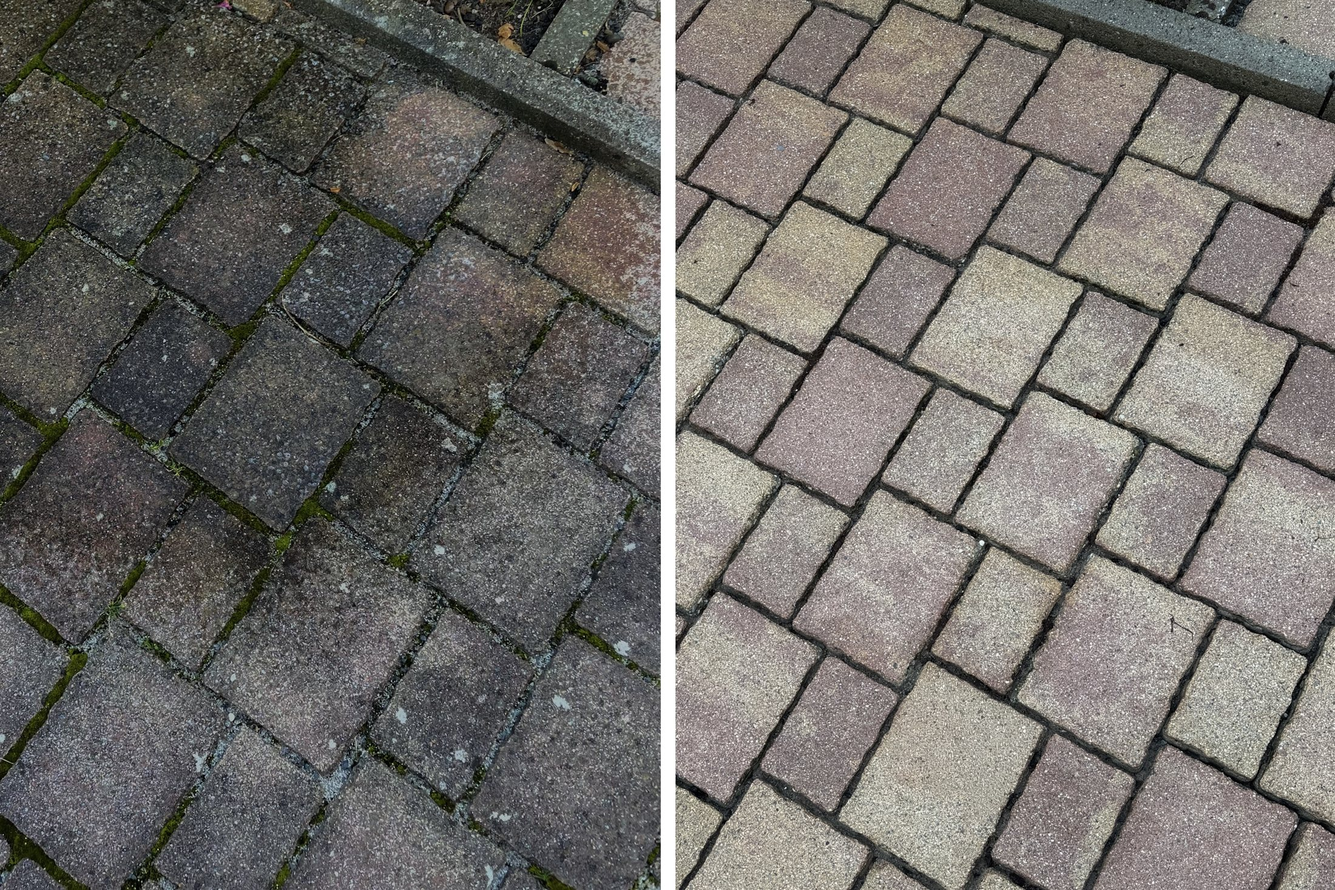
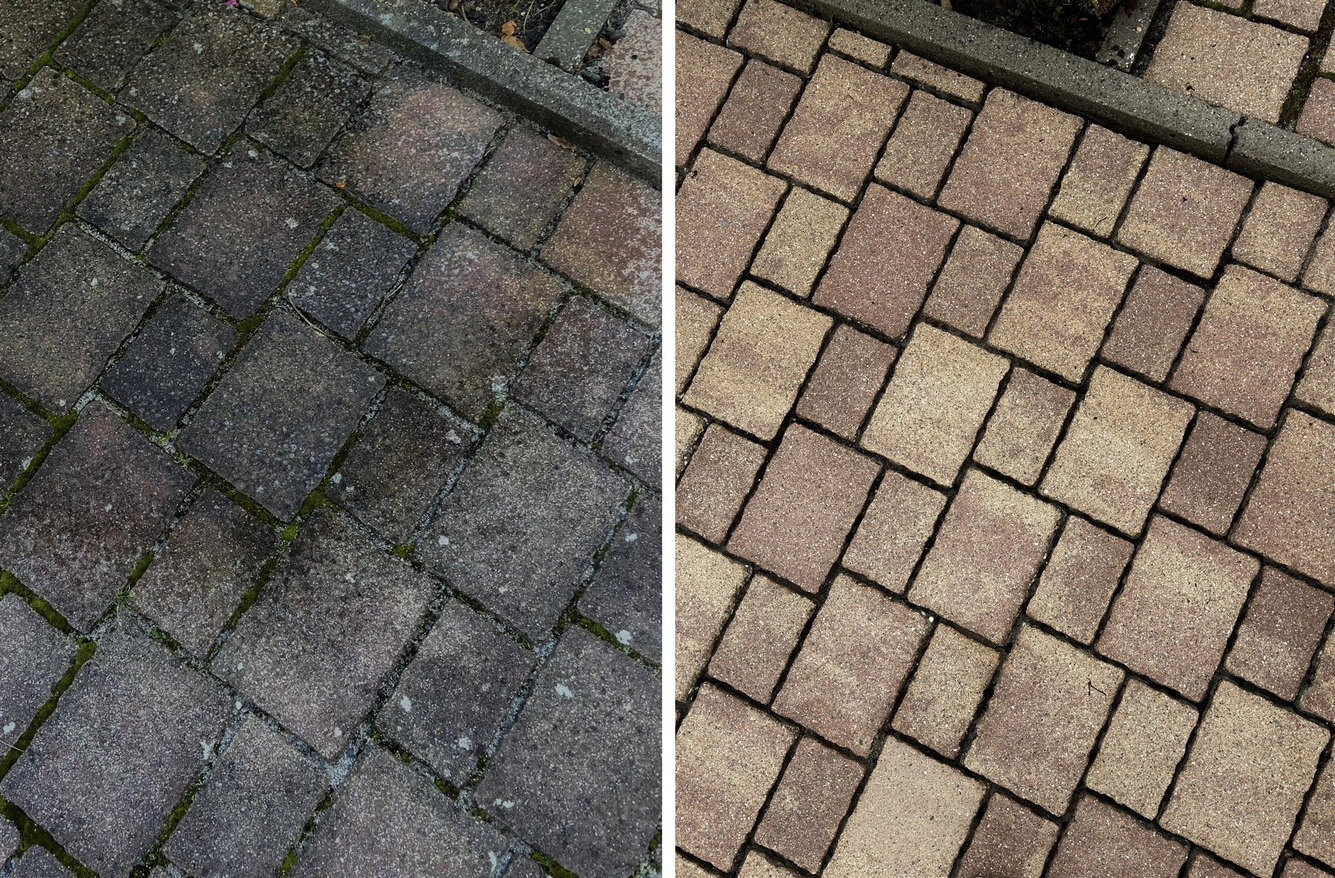
Pflaster Vorher/Nachher-Foto durch bearbeitete Version ersetzt (wirkt auf Ueber-uns- und Terrassen-Pflasterflaechen-Seite, da beide dieselbe Datei nutzen), Seitenverhaeltnis leicht angepasst

diff --git a/src/pages/leistungen/terrassen-pflasterflaechen.html b/src/pages/leistungen/terrassen-pflasterflaechen.html
@@ -22,7 +22,7 @@ pagecss: pages.css
       <div class="detail-block">
         <div class="detail-media reveal-scale">
           <div class="img-placeholder" style="aspect-ratio:2114/1211; position:relative; top:0;"><img src="{{PREFIX}}assets/img/terrasse-pflaster-vorher-nachher.jpg" alt="Terrasse und Pflaster Vorher/Nachher" style="position:absolute;inset:0;width:100%;height:100%;object-fit:cover;" /></div>
-          <div class="img-placeholder" style="aspect-ratio:2200/1467; position:relative; top:0; margin-top:var(--space-md);"><img src="{{PREFIX}}assets/img/ueber-uns-pflaster-vorher-nachher.jpg" alt="Pflasterfläche Vorher/Nachher – Moos- und Schmutzentfernung" style="position:absolute;inset:0;width:100%;height:100%;object-fit:cover;" /></div>
+          <div class="img-placeholder" style="aspect-ratio:2200/1447; position:relative; top:0; margin-top:var(--space-md);"><img src="{{PREFIX}}assets/img/ueber-uns-pflaster-vorher-nachher.jpg" alt="Pflasterfläche Vorher/Nachher – Moos- und Schmutzentfernung" style="position:absolute;inset:0;width:100%;height:100%;object-fit:cover;" /></div>
         </div>
         <div class="detail-text reveal">
           <span class="eyebrow">Wie wir vorgehen</span>

diff --git a/dist/leistungen/terrassen-pflasterflaechen.html b/dist/leistungen/terrassen-pflasterflaechen.html
@@ -201,7 +201,7 @@
       <div class="detail-block">
         <div class="detail-media reveal-scale">
           <div class="img-placeholder" style="aspect-ratio:2114/1211; position:relative; top:0;"><img src="../assets/img/terrasse-pflaster-vorher-nachher.jpg" alt="Terrasse und Pflaster Vorher/Nachher" style="position:absolute;inset:0;width:100%;height:100%;object-fit:cover;" /></div>
-          <div class="img-placeholder" style="aspect-ratio:2200/1467; position:relative; top:0; margin-top:var(--space-md);"><img src="../assets/img/ueber-uns-pflaster-vorher-nachher.jpg" alt="Pflasterfläche Vorher/Nachher – Moos- und Schmutzentfernung" style="position:absolute;inset:0;width:100%;height:100%;object-fit:cover;" /></div>
+          <div class="img-placeholder" style="aspect-ratio:2200/1447; position:relative; top:0; margin-top:var(--space-md);"><img src="../assets/img/ueber-uns-pflaster-vorher-nachher.jpg" alt="Pflasterfläche Vorher/Nachher – Moos- und Schmutzentfernung" style="position:absolute;inset:0;width:100%;height:100%;object-fit:cover;" /></div>
         </div>
         <div class="detail-text reveal">
           <span class="eyebrow">Wie wir vorgehen</span>

diff --git a/src/pages/ueber-uns.html b/src/pages/ueber-uns.html
@@ -19,7 +19,7 @@ pagecss: pages.css
     <div class="container">
       <div class="split">
         <div class="split-media reveal-scale">
-          <div class="img-placeholder img-placeholder--wide" style="aspect-ratio:2200/1467;"><img src="{{PREFIX}}assets/img/ueber-uns-pflaster-vorher-nachher.jpg" alt="Pflasterfläche Vorher/Nachher – Moos- und Schmutzentfernung" style="position:absolute;inset:0;width:100%;height:100%;object-fit:cover;" /></div>
+          <div class="img-placeholder img-placeholder--wide" style="aspect-ratio:2200/1447;"><img src="{{PREFIX}}assets/img/ueber-uns-pflaster-vorher-nachher.jpg" alt="Pflasterfläche Vorher/Nachher – Moos- und Schmutzentfernung" style="position:absolute;inset:0;width:100%;height:100%;object-fit:cover;" /></div>
         </div>
         <div class="split-text">
           <span class="eyebrow reveal">Unser Anspruch</span>

diff --git a/dist/ueber-uns.html b/dist/ueber-uns.html
@@ -198,7 +198,7 @@
     <div class="container">
       <div class="split">
         <div class="split-media reveal-scale">
-          <div class="img-placeholder img-placeholder--wide" style="aspect-ratio:2200/1467;"><img src="assets/img/ueber-uns-pflaster-vorher-nachher.jpg" alt="Pflasterfläche Vorher/Nachher – Moos- und Schmutzentfernung" style="position:absolute;inset:0;width:100%;height:100%;object-fit:cover;" /></div>
+          <div class="img-placeholder img-placeholder--wide" style="aspect-ratio:2200/1447;"><img src="assets/img/ueber-uns-pflaster-vorher-nachher.jpg" alt="Pflasterfläche Vorher/Nachher – Moos- und Schmutzentfernung" style="position:absolute;inset:0;width:100%;height:100%;object-fit:cover;" /></div>
         </div>
         <div class="split-text">
           <span class="eyebrow reveal">Unser Anspruch</span>
